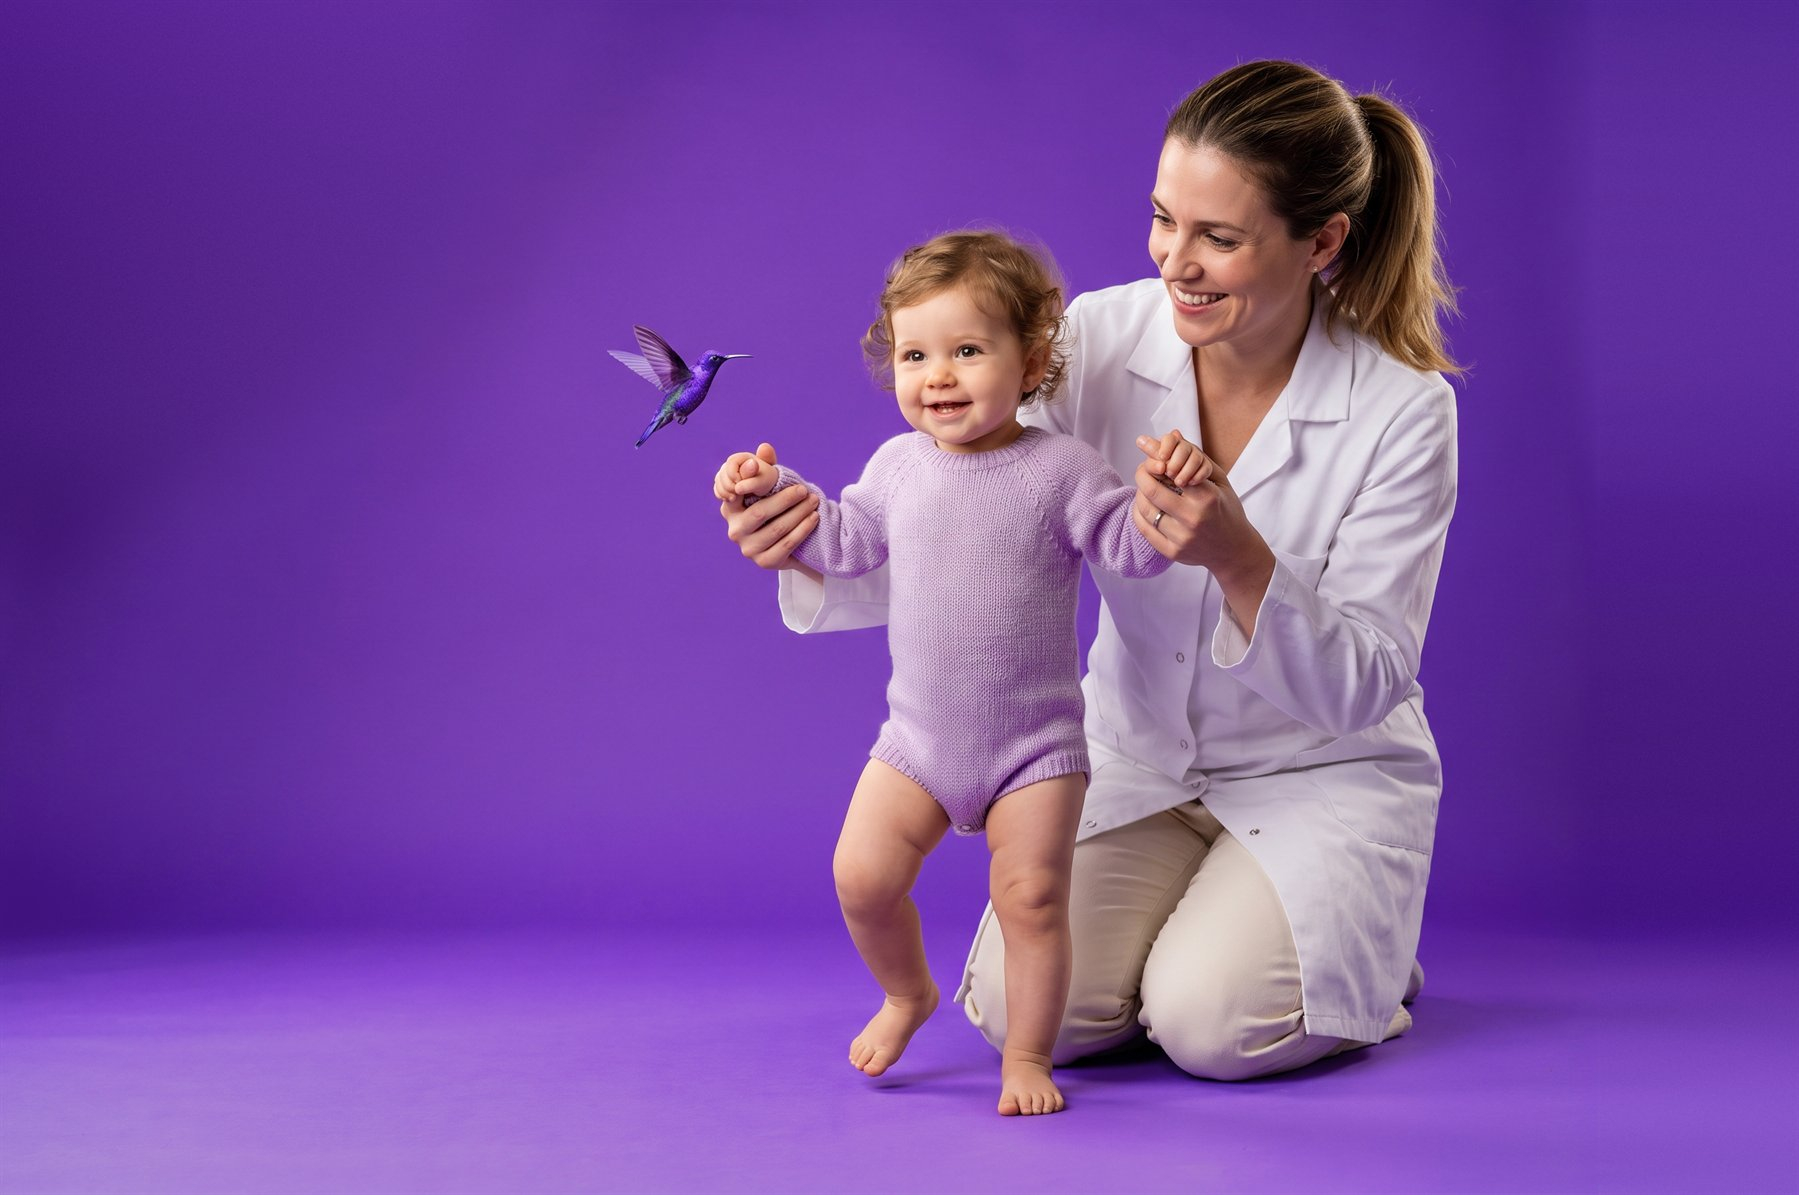
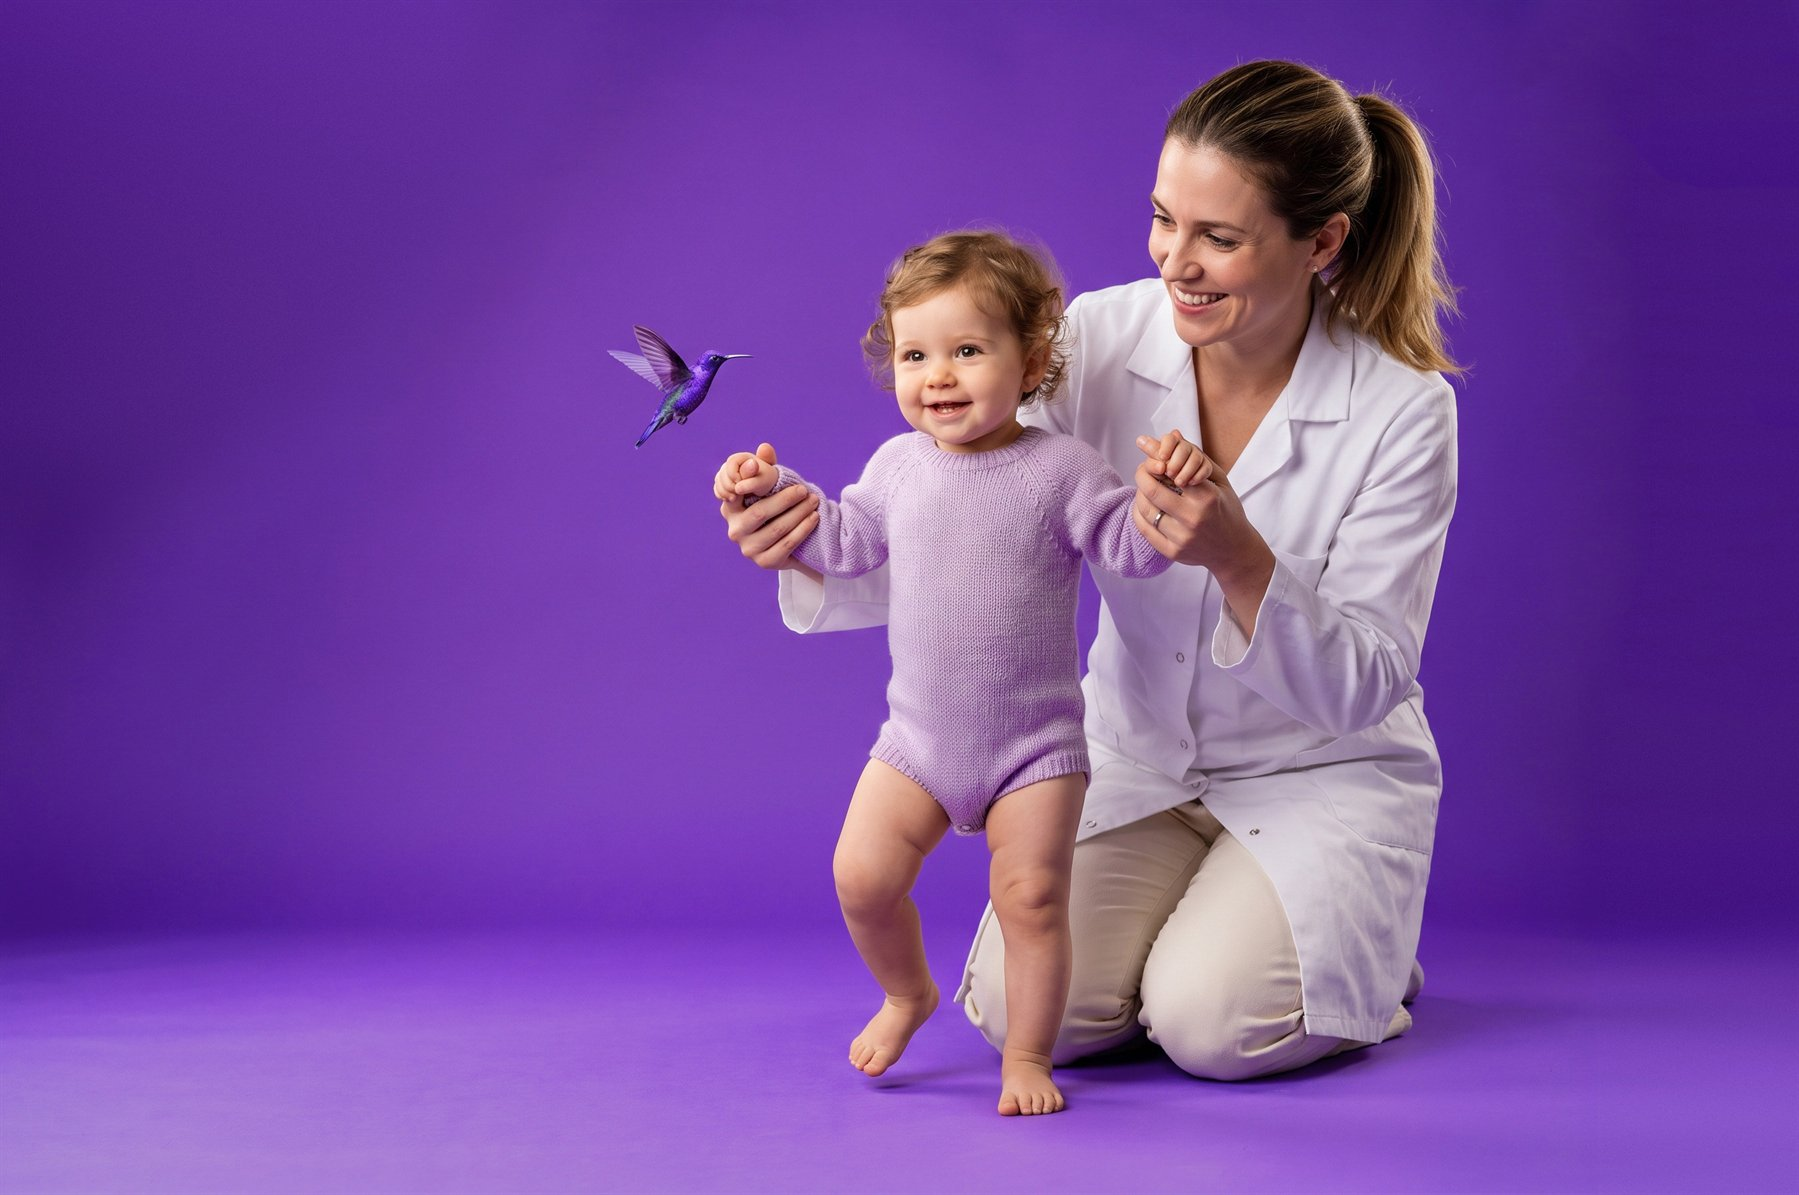
Слайды 3 и 4: фото, поправленные пользователем в Фотошопе (руки)

Changed region(s): [[0.8716, 0.0, 1.0, 0.3715]]

diff --git a/app-concept.html b/app-concept.html
@@ -9,7 +9,7 @@
   <link rel="preconnect" href="https://fonts.googleapis.com">
   <link rel="preconnect" href="https://fonts.gstatic.com" crossorigin>
   <link href="https://fonts.googleapis.com/css2?family=Comfortaa:wght@400;600;700&family=Nunito:wght@400;600;700;800&display=swap" rel="stylesheet">
-  <link rel="stylesheet" href="css/style.css?v=202610012123">
+  <link rel="stylesheet" href="css/style.css?v=202610012133">
   <style>
     /* ---------- страница ---------- */
     .concept-hero { background: linear-gradient(120deg, var(--p600), var(--p800)); color: #fff; border-radius: 32px; padding: 44px 48px; margin-top: 24px; display: grid; grid-template-columns: 1.2fr .8fr; gap: 32px; align-items: center; position: relative; overflow: hidden; }
@@ -778,8 +778,8 @@
   <symbol id="a-alert" viewBox="0 0 24 24" fill="none" stroke="currentColor" stroke-width="2" stroke-linecap="round" stroke-linejoin="round"><circle cx="12" cy="12" r="9"/><path d="M12 7v6M12 16h.01"/></symbol>
 </svg>
 
-<script src="js/data.js?v=202610012123"></script>
-<script src="js/photos.js?v=202610012123"></script>
-<script src="js/main.js?v=202610012123"></script>
+<script src="js/data.js?v=202610012133"></script>
+<script src="js/photos.js?v=202610012133"></script>
+<script src="js/main.js?v=202610012133"></script>
 </body>
 </html>

diff --git a/rostomer.html b/rostomer.html
@@ -8,7 +8,7 @@
   <link rel="preconnect" href="https://fonts.googleapis.com">
   <link rel="preconnect" href="https://fonts.gstatic.com" crossorigin>
   <link href="https://fonts.googleapis.com/css2?family=Comfortaa:wght@400;600;700&family=Nunito:wght@400;600;700;800&display=swap" rel="stylesheet">
-  <link rel="stylesheet" href="css/style.css?v=202610012123">
+  <link rel="stylesheet" href="css/style.css?v=202610012133">
   <style>
     .intro { background: #fff; border-radius: var(--radius); padding: 24px 28px; box-shadow: var(--shadow); margin-bottom: 28px; }
     .intro p { margin: 0 0 8px; font-size: 15px; }
@@ -90,10 +90,10 @@
   </div>
 </section>
 
-<script src="js/data.js?v=202610012123"></script>
-<script src="js/photos.js?v=202610012123"></script>
-<script src="js/main.js?v=202610012123"></script>
-<script src="js/rostomer.js?v=202610012123"></script>
+<script src="js/data.js?v=202610012133"></script>
+<script src="js/photos.js?v=202610012133"></script>
+<script src="js/main.js?v=202610012133"></script>
+<script src="js/rostomer.js?v=202610012133"></script>
 <script>
 (function () {
   window.ROSTOMER.variants.forEach(function (v, i) {

diff --git a/index.html b/index.html
@@ -9,7 +9,7 @@
   <link rel="preconnect" href="https://fonts.googleapis.com">
   <link rel="preconnect" href="https://fonts.gstatic.com" crossorigin>
   <link href="https://fonts.googleapis.com/css2?family=Comfortaa:wght@400;600;700&family=Nunito:wght@400;600;700;800&display=swap" rel="stylesheet">
-  <link rel="stylesheet" href="css/style.css?v=202610012123">
+  <link rel="stylesheet" href="css/style.css?v=202610012133">
 </head>
 <body>
 
@@ -237,8 +237,8 @@
   </div>
 </section>
 
-<script src="js/data.js?v=202610012123"></script>
-<script src="js/photos.js?v=202610012123"></script>
-<script src="js/main.js?v=202610012123"></script>
+<script src="js/data.js?v=202610012133"></script>
+<script src="js/photos.js?v=202610012133"></script>
+<script src="js/main.js?v=202610012133"></script>
 </body>
 </html>

diff --git a/ceny.html b/ceny.html
@@ -9,7 +9,7 @@
   <link rel="preconnect" href="https://fonts.googleapis.com">
   <link rel="preconnect" href="https://fonts.gstatic.com" crossorigin>
   <link href="https://fonts.googleapis.com/css2?family=Comfortaa:wght@400;600;700&family=Nunito:wght@400;600;700;800&display=swap" rel="stylesheet">
-  <link rel="stylesheet" href="css/style.css?v=202610012123">
+  <link rel="stylesheet" href="css/style.css?v=202610012133">
 </head>
 <body>
 
@@ -63,8 +63,8 @@
   </div>
 </section>
 
-<script src="js/data.js?v=202610012123"></script>
-<script src="js/photos.js?v=202610012123"></script>
-<script src="js/main.js?v=202610012123"></script>
+<script src="js/data.js?v=202610012133"></script>
+<script src="js/photos.js?v=202610012133"></script>
+<script src="js/main.js?v=202610012133"></script>
 </body>
 </html>

diff --git a/kontakty.html b/kontakty.html
@@ -9,7 +9,7 @@
   <link rel="preconnect" href="https://fonts.googleapis.com">
   <link rel="preconnect" href="https://fonts.gstatic.com" crossorigin>
   <link href="https://fonts.googleapis.com/css2?family=Comfortaa:wght@400;600;700&family=Nunito:wght@400;600;700;800&display=swap" rel="stylesheet">
-  <link rel="stylesheet" href="css/style.css?v=202610012123">
+  <link rel="stylesheet" href="css/style.css?v=202610012133">
 </head>
 <body>
 
@@ -55,8 +55,8 @@
   </div>
 </section>
 
-<script src="js/data.js?v=202610012123"></script>
-<script src="js/photos.js?v=202610012123"></script>
-<script src="js/main.js?v=202610012123"></script>
+<script src="js/data.js?v=202610012133"></script>
+<script src="js/photos.js?v=202610012133"></script>
+<script src="js/main.js?v=202610012133"></script>
 </body>
 </html>

diff --git a/o-klinike.html b/o-klinike.html
@@ -9,7 +9,7 @@
   <link rel="preconnect" href="https://fonts.googleapis.com">
   <link rel="preconnect" href="https://fonts.gstatic.com" crossorigin>
   <link href="https://fonts.googleapis.com/css2?family=Comfortaa:wght@400;600;700&family=Nunito:wght@400;600;700;800&display=swap" rel="stylesheet">
-  <link rel="stylesheet" href="css/style.css?v=202610012123">
+  <link rel="stylesheet" href="css/style.css?v=202610012133">
 </head>
 <body>
 
@@ -91,8 +91,8 @@
   </div>
 </section>
 
-<script src="js/data.js?v=202610012123"></script>
-<script src="js/photos.js?v=202610012123"></script>
-<script src="js/main.js?v=202610012123"></script>
+<script src="js/data.js?v=202610012133"></script>
+<script src="js/photos.js?v=202610012133"></script>
+<script src="js/main.js?v=202610012133"></script>
 </body>
 </html>

diff --git a/poleznoe.html b/poleznoe.html
@@ -9,7 +9,7 @@
   <link rel="preconnect" href="https://fonts.googleapis.com">
   <link rel="preconnect" href="https://fonts.gstatic.com" crossorigin>
   <link href="https://fonts.googleapis.com/css2?family=Comfortaa:wght@400;600;700&family=Nunito:wght@400;600;700;800&display=swap" rel="stylesheet">
-  <link rel="stylesheet" href="css/style.css?v=202610012123">
+  <link rel="stylesheet" href="css/style.css?v=202610012133">
 </head>
 <body>
 
@@ -33,8 +33,8 @@
   </div>
 </section>
 
-<script src="js/data.js?v=202610012123"></script>
-<script src="js/photos.js?v=202610012123"></script>
-<script src="js/main.js?v=202610012123"></script>
+<script src="js/data.js?v=202610012133"></script>
+<script src="js/photos.js?v=202610012133"></script>
+<script src="js/main.js?v=202610012133"></script>
 </body>
 </html>

diff --git a/uslugi.html b/uslugi.html
@@ -9,7 +9,7 @@
   <link rel="preconnect" href="https://fonts.googleapis.com">
   <link rel="preconnect" href="https://fonts.gstatic.com" crossorigin>
   <link href="https://fonts.googleapis.com/css2?family=Comfortaa:wght@400;600;700&family=Nunito:wght@400;600;700;800&display=swap" rel="stylesheet">
-  <link rel="stylesheet" href="css/style.css?v=202610012123">
+  <link rel="stylesheet" href="css/style.css?v=202610012133">
 </head>
 <body>
 
@@ -57,8 +57,8 @@
   </div>
 </section>
 
-<script src="js/data.js?v=202610012123"></script>
-<script src="js/photos.js?v=202610012123"></script>
-<script src="js/main.js?v=202610012123"></script>
+<script src="js/data.js?v=202610012133"></script>
+<script src="js/photos.js?v=202610012133"></script>
+<script src="js/main.js?v=202610012133"></script>
 </body>
 </html>

diff --git a/uzi.html b/uzi.html
@@ -9,7 +9,7 @@
   <link rel="preconnect" href="https://fonts.googleapis.com">
   <link rel="preconnect" href="https://fonts.gstatic.com" crossorigin>
   <link href="https://fonts.googleapis.com/css2?family=Comfortaa:wght@400;600;700&family=Nunito:wght@400;600;700;800&display=swap" rel="stylesheet">
-  <link rel="stylesheet" href="css/style.css?v=202610012123">
+  <link rel="stylesheet" href="css/style.css?v=202610012133">
 </head>
 <body>
 
@@ -75,8 +75,8 @@
   </div>
 </section>
 
-<script src="js/data.js?v=202610012123"></script>
-<script src="js/photos.js?v=202610012123"></script>
-<script src="js/main.js?v=202610012123"></script>
+<script src="js/data.js?v=202610012133"></script>
+<script src="js/photos.js?v=202610012133"></script>
+<script src="js/main.js?v=202610012133"></script>
 </body>
 </html>

diff --git a/vrachi.html b/vrachi.html
@@ -9,7 +9,7 @@
   <link rel="preconnect" href="https://fonts.googleapis.com">
   <link rel="preconnect" href="https://fonts.gstatic.com" crossorigin>
   <link href="https://fonts.googleapis.com/css2?family=Comfortaa:wght@400;600;700&family=Nunito:wght@400;600;700;800&display=swap" rel="stylesheet">
-  <link rel="stylesheet" href="css/style.css?v=202610012123">
+  <link rel="stylesheet" href="css/style.css?v=202610012133">
 </head>
 <body>
 
@@ -45,8 +45,8 @@
   </div>
 </section>
 
-<script src="js/data.js?v=202610012123"></script>
-<script src="js/photos.js?v=202610012123"></script>
-<script src="js/main.js?v=202610012123"></script>
+<script src="js/data.js?v=202610012133"></script>
+<script src="js/photos.js?v=202610012133"></script>
+<script src="js/main.js?v=202610012133"></script>
 </body>
 </html>
